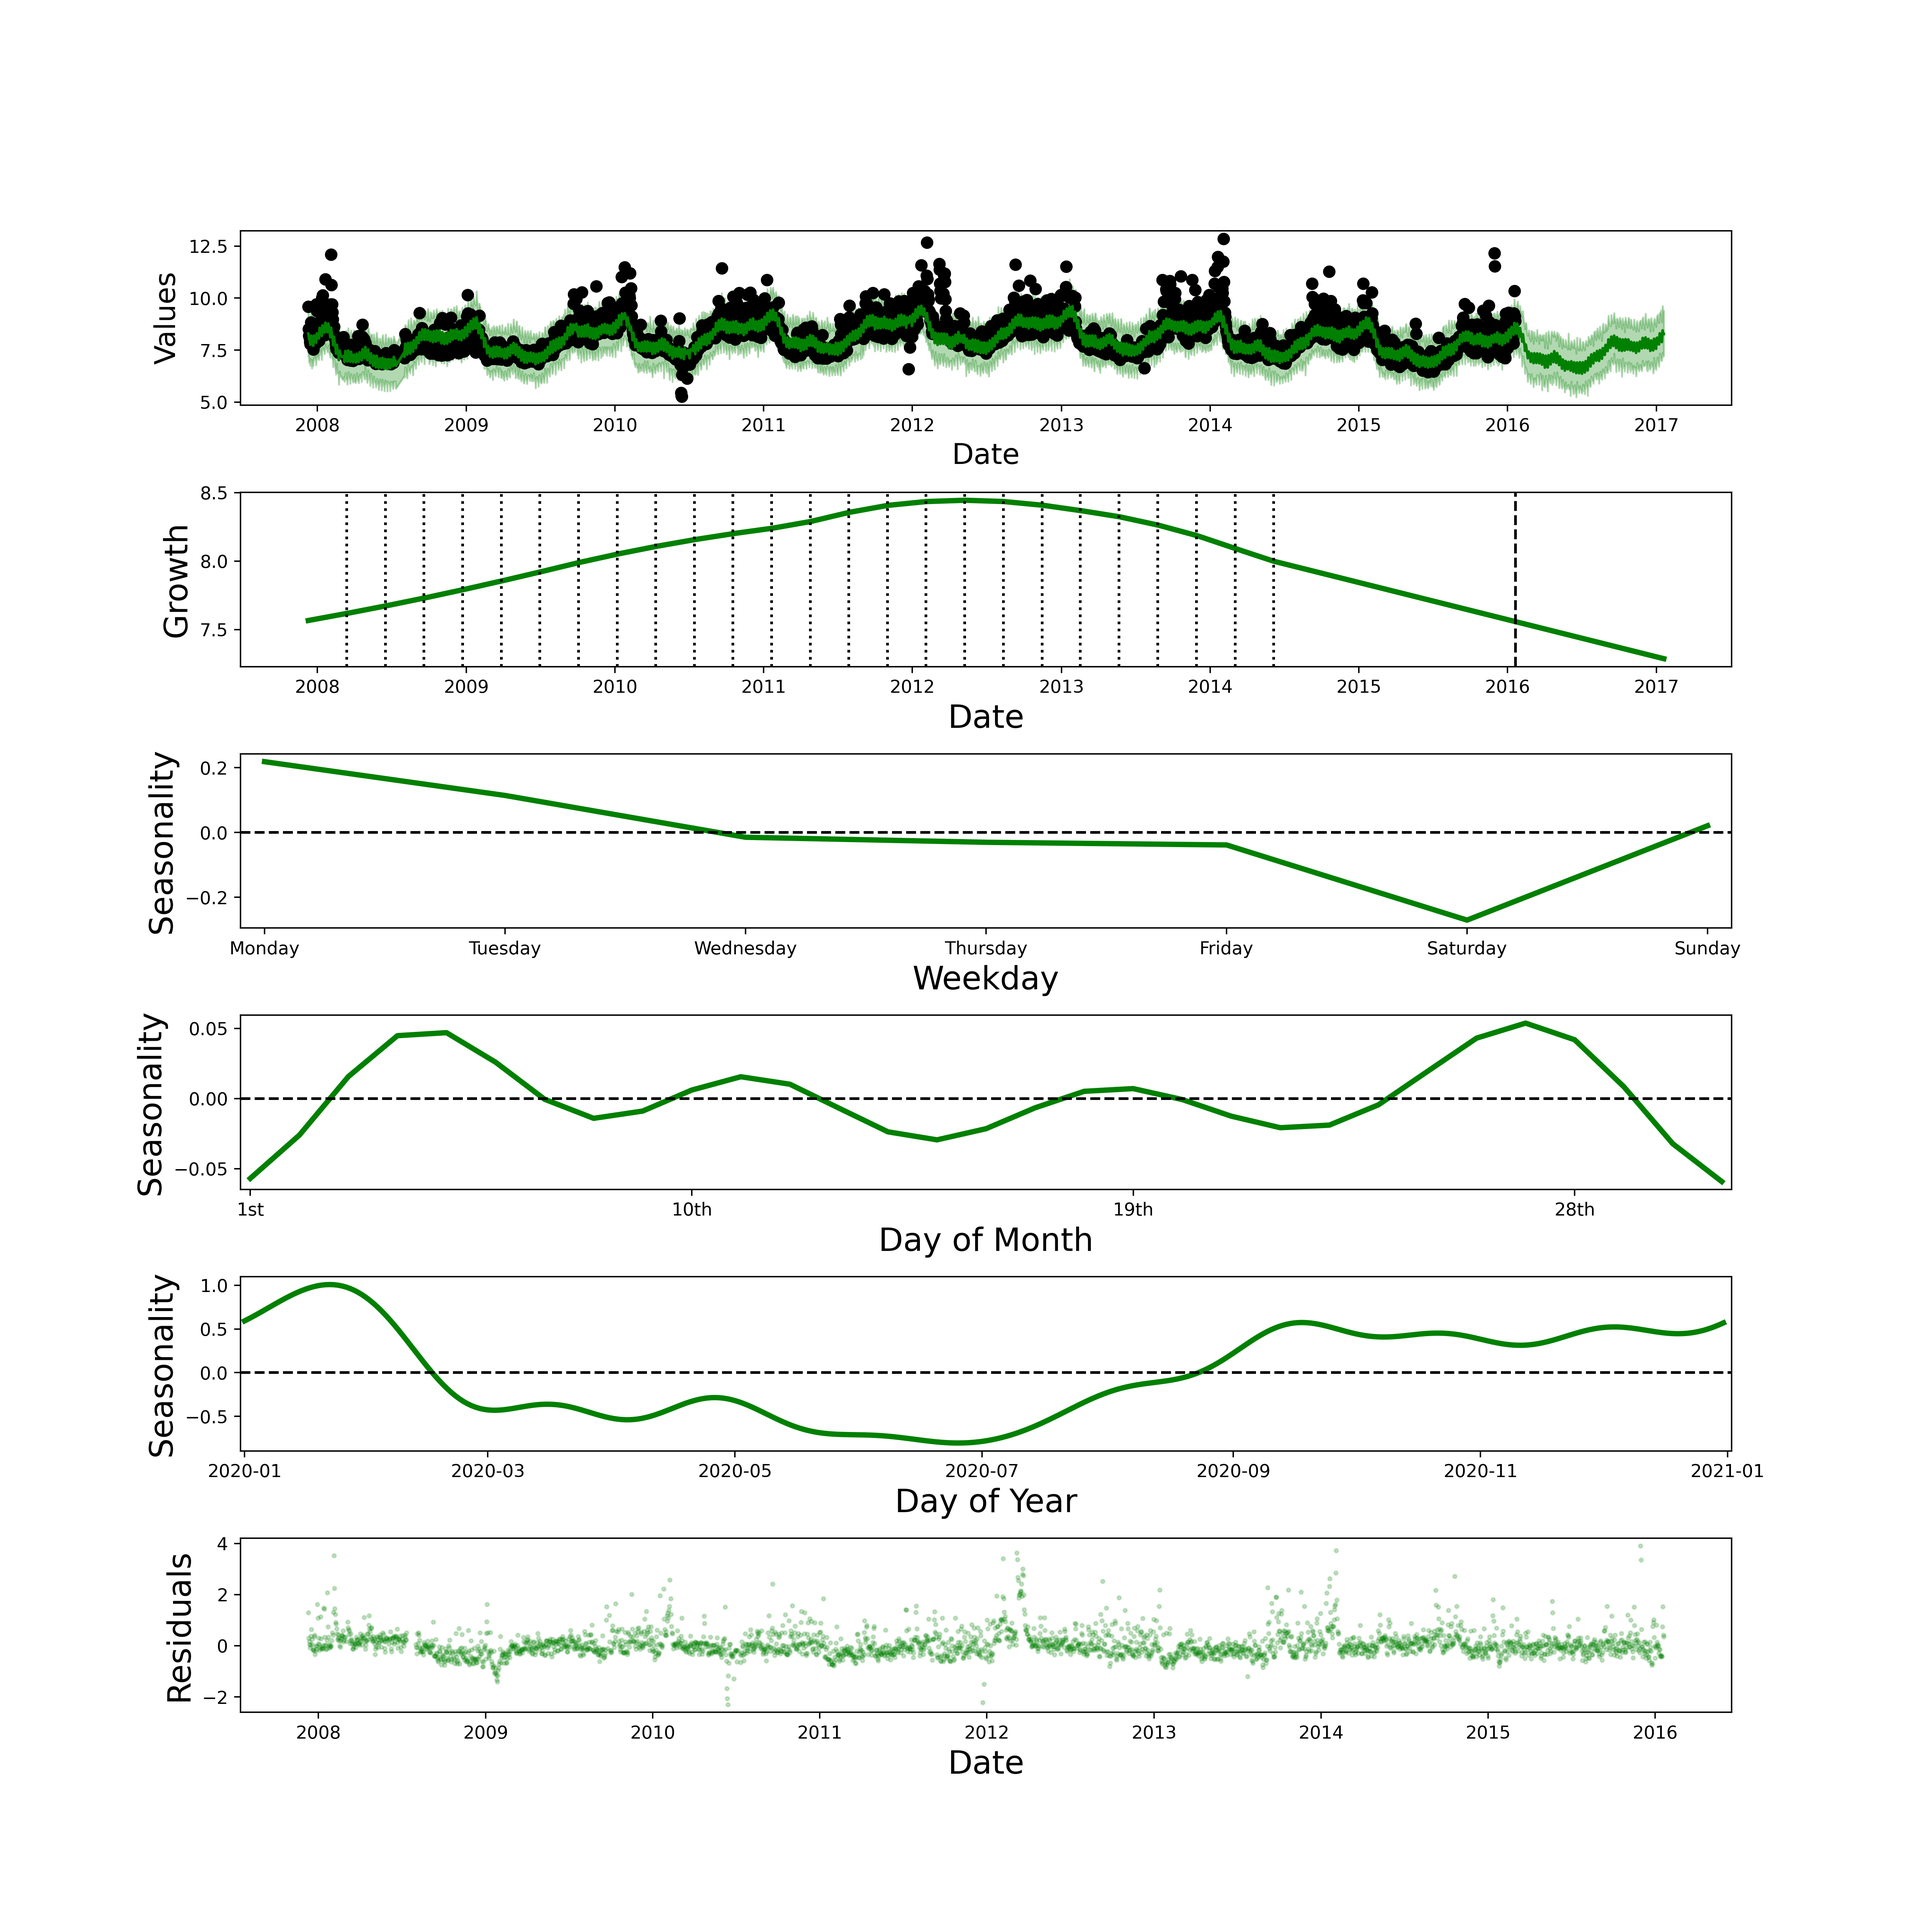
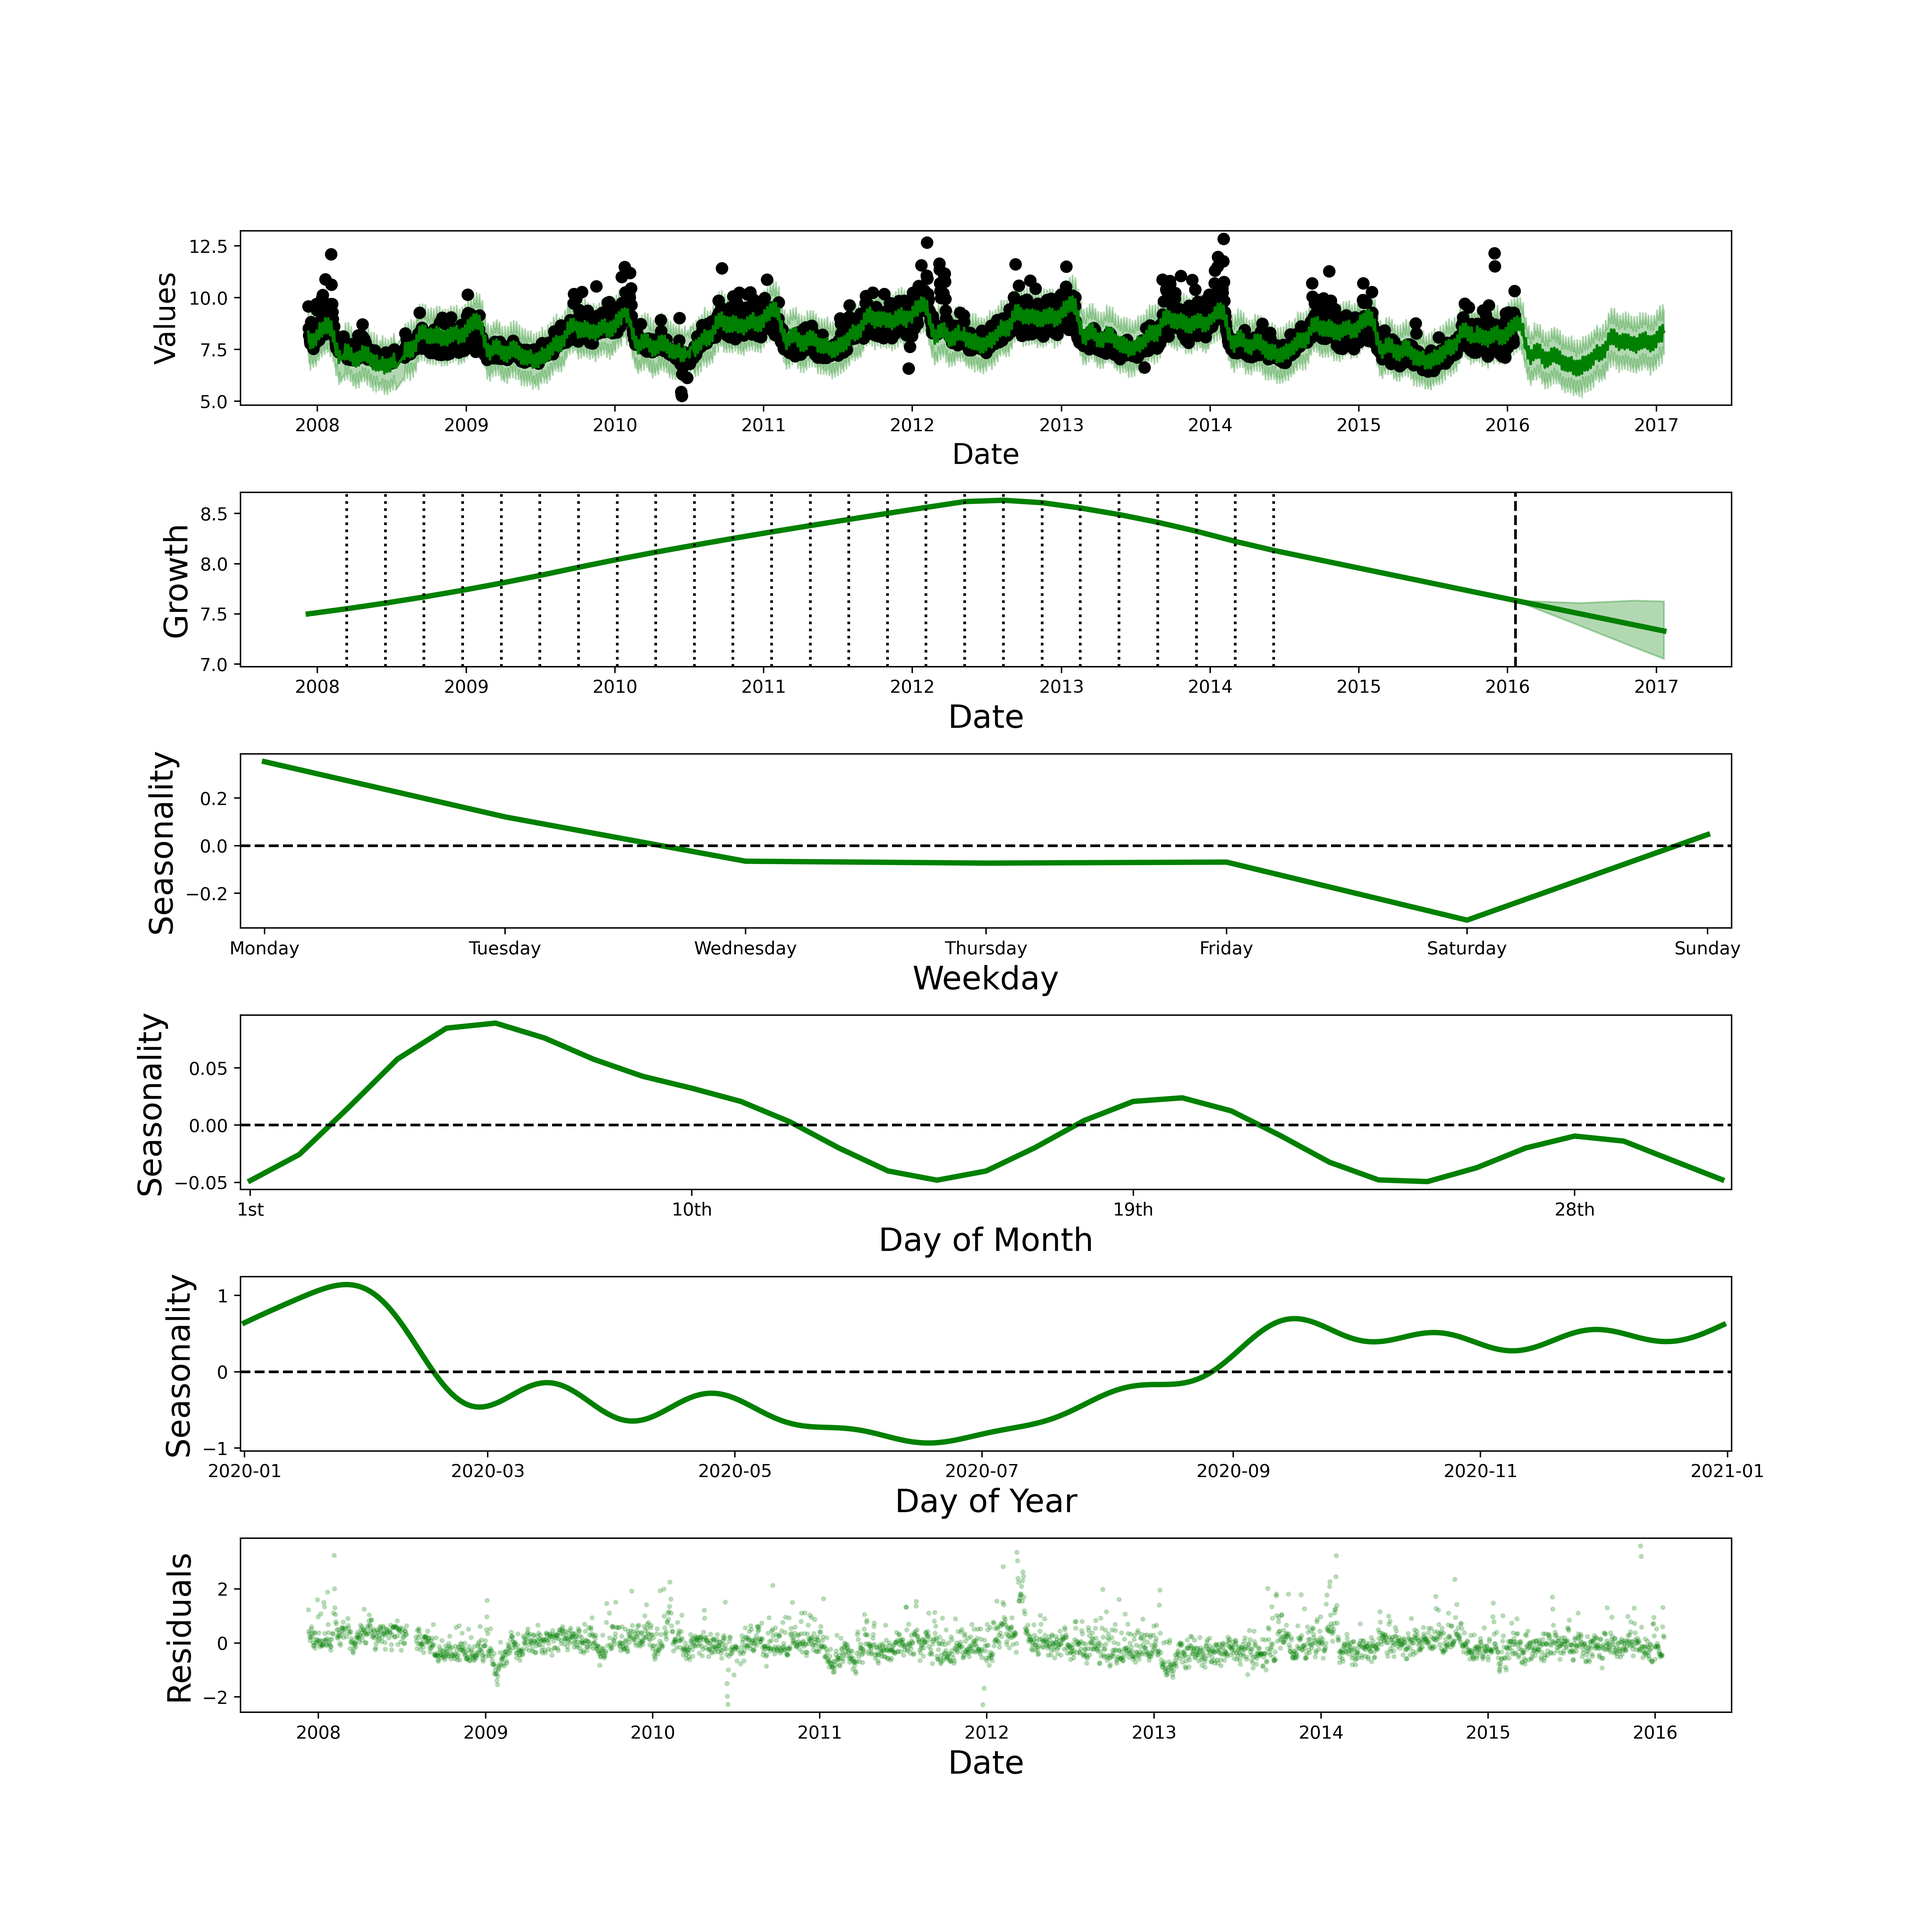
changepoints seem to work, need to think of other ways to simulate future changepoints

diff --git a/chronos.py b/chronos.py
@@ -138,11 +138,11 @@ class Chronos:
         return X_trend, X_seasonality, y
         
         
-    def find_changepoint_positions(self, X_trend, changepoint_num, drop_first = True):
+    def find_changepoint_positions(self, X_trend, changepoint_num, min_value = None, drop_first = True):
         
         #changepoint_range = int(self.changepoint_range_ * X_trend.max())
-
-        min_value = X_trend.min().item()
+        if (min_value is None):
+            min_value = X_trend.min().item()
         max_value_in_data = X_trend.max().item() #* data_prop
 
         max_distance = (max_value_in_data - min_value) * self.changepoint_range_
@@ -161,7 +161,7 @@ class Chronos:
         
 
     def make_A_matrix(self, X_trend, changepoints):
-        A = torch.zeros((X_trend.shape[0], self.n_changepoints_))
+        A = torch.zeros((X_trend.shape[0], len(changepoints)))
 
         #print(X_trend)
 
@@ -269,7 +269,7 @@ class Chronos:
         
         for step in range(self.n_iter_):
             
-            loss = round(self.svi_.step(X_trend, X_seasonality, A, y)/y.shape[0], 4)
+            loss = round(self.svi_.step(X_trend, X_seasonality, A, self.changepoints, y)/y.shape[0], 4)
             
             if (step % print_interval == 0):
                 pct_done = round(100*(step+1)/self.n_iter_, 2)
@@ -282,14 +282,27 @@ class Chronos:
         print(f"{pct_done}% - ELBO loss: {loss}")
             
     ##################################################################
+    def combine_components(self, X_trend, X_seasonality, A, deltas, gammas):
+        pass
+    ##################################################################
     
-    def model_MLE_(self, X_trend, X_seasonality, A, y=None):     
+    def model_MLE_(self, X_trend, X_seasonality, A, changepoints, y=None):     
         
         intercept_init = pyro.param("intercept", torch.tensor(0.0))
         slope_init = pyro.param("trend_slope", torch.tensor(0.0))
 
         deltas = pyro.param("delta", torch.zeros(self.n_changepoints_))
-        gammas = -deltas * self.changepoints
+
+        if (A.shape[1] > self.n_changepoints_):
+            extra_changepoint_num = A.shape[1] - self.n_changepoints_
+            future_laplace_scale = torch.abs(deltas).mean()
+
+            future_deltas = torch.distributions.Laplace(0, future_laplace_scale).sample((3,))
+
+            deltas = torch.cat([deltas, future_deltas])
+        
+    
+        gammas = -deltas * changepoints
 
         slope = slope_init + torch.matmul(A, deltas)
         intercept = intercept_init + torch.matmul(A, gammas)
@@ -327,7 +340,7 @@ class Chronos:
         
         
     
-    def guide_MLE_(self, X_trend, X_seasonality, A, y=None):
+    def guide_MLE_(self, X_trend, X_seasonality, A, changepoints, y=None):
         pass
     
     
@@ -341,7 +354,7 @@ class Chronos:
         return trend
     ##################################################################
     
-    def model_MAP_(self, X_trend, X_seasonality, A, y=None):
+    def model_MAP_(self, X_trend, X_seasonality, A, changepoints, y=None):
         
         
         intercept_init = pyro.sample("intercept", dist.Normal(0.0, 10.0))
@@ -350,27 +363,32 @@ class Chronos:
         deltas = pyro.sample("delta", dist.Laplace(torch.zeros(self.n_changepoints_), 
                                                    torch.full((self.n_changepoints_, ), 0.05)).to_event(1))
 
+        
+        if (A.shape[1] > self.n_changepoints_):
+            extra_changepoint_num = A.shape[1] - self.n_changepoints_
+            #print(deltas)
+            future_laplace_scale = torch.abs(deltas).mean()
+            #print(future_laplace_scale)
+
+            future_deltas = torch.distributions.Laplace(0, future_laplace_scale).sample((3,))
+            #future_deltas_mask = torch.distributions.Bernoulli(self.changepoint_proportion).sample((3,))
+            #print(future_deltas)
+            #print(future_deltas_mask)
+
+            deltas = torch.cat([deltas, future_deltas])
+            #print(deltas)
+            #print(changepoints)
+
+            #assert(False)
+
         #deltas = torch.where(torch.abs(deltas) < 0.01, torch.tensor(0.0), deltas)
         
-        gammas = -deltas * self.changepoints
+    
+        gammas = -deltas * changepoints
 
 
         slope = slope_init + torch.matmul(A, deltas)
         intercept = intercept_init + torch.matmul(A, gammas)
-        
-
-        #print("slope", slope.shape)
-        '''print("#"*30)
-        
-        print("slope-init, k", slope_init)
-        print('intercept, m', intercept_init)
-        print("delta", deltas)
-        print("gammas", gammas)
-        print("changepoint", self.changepoints)
-        print(self.changepoints[0]-2, self.changepoints[0]+1)
-        print("t", self.changepoints[0]-2, self.changepoints[0]+2)
-        #print("A", )#'''
-        
         
 
 
@@ -438,8 +456,18 @@ class Chronos:
         X_trend, X_seasonality, y = self.transform_data_(data)
         future_changepoint_number = self.changepoint_proportion * (X_trend.max() - self.max_train_time)
         future_changepoint_number = round(future_changepoint_number.item())
-        print(future_changepoint_number)
+        #print(future_changepoint_number)
 
+        future_changepoint_positions = self.find_changepoint_positions(X_trend, 
+                                                                       future_changepoint_number, 
+                                                                       min_value = self.max_train_time, 
+                                                                       drop_first = False)
+
+        combined_changepoints = []
+        combined_changepoints.extend(self.changepoints)
+        combined_changepoints.extend(future_changepoint_positions)
+        combined_changepoints = torch.tensor(combined_changepoints)
+        #print(future_changepoint_positions)
 
         #assert(False)
         
@@ -457,8 +485,10 @@ class Chronos:
                                     num_samples=sample_number,
                                     return_sites=("obs", "trend")) 
 
-            A = self.make_A_matrix(X_trend, self.changepoints)
-            samples = predictive(X_trend, X_seasonality, A)
+            A = self.make_A_matrix(X_trend, combined_changepoints)
+            #print(A.shape)
+            #assert(False)
+            samples = predictive(X_trend, X_seasonality, A, combined_changepoints)
             
             
             space_on_each_side = (1.0 - ci_interval)/2.0
@@ -466,15 +496,25 @@ class Chronos:
             upper_ntile = int(len(samples['obs']) * (1.0 - space_on_each_side))
             
 
-            trend = samples['trend'].squeeze()[0, :]
+            trend_array = samples['trend'].squeeze()
+            trend = trend_array.mean(dim=0)
+            trend_upper = trend_array.max(dim=0).values
+            trend_lower = trend_array.min(dim=0).values
+
+            #print(trend_array)
+            #print(trend_upper.values)
             predictions = pd.DataFrame({"yhat": torch.mean(samples['obs'], 0).detach().numpy(),
                                         "yhat_lower": samples['obs'].kthvalue(lower_ntile, dim=0)[0].detach().numpy(),
                                         "yhat_upper": samples['obs'].kthvalue(upper_ntile, dim=0)[0].detach().numpy(),
-                                        "trend": trend.detach().numpy()})
+                                        "trend": trend.detach().numpy(),
+                                        "trend_lower": trend_lower.detach().numpy(),
+                                        "trend_upper": trend_upper.detach().numpy()})
             
             predictions[self.target_col_] = y.detach().numpy()
             predictions[self.time_col_] = data[self.time_col_]
-            return predictions[[self.time_col_, self.target_col_, 'yhat', 'yhat_upper', 'yhat_lower', 'trend']]
+            return predictions[[self.time_col_, self.target_col_, 
+                                'yhat', 'yhat_upper', 'yhat_lower', 
+                                'trend', 'trend_upper', 'trend_lower']]
         else:
             raise NotImplementedError(f"Did not implement .predict for {self.method_}")
 
@@ -600,14 +640,18 @@ class Chronos:
         axs[0].set_ylabel("Values", size=16)
         current_axs += 1
 
-
+        ########## TREND ########################################################################
         const = pyro.param(f'{self.param_prefix_}intercept').detach()
         growth = pyro.param(f'{self.param_prefix_}trend_slope').detach()
         #const, growth = pyro.param(self.param_name_).detach().numpy()[:2]
         trend_X = predictions[self.time_col_]
         trend_Y = predictions['trend']
-        predictions_start = predictions[predictions[self.target_col_].isna()][self.time_col_].min()
+
+        
+        
         axs[current_axs].plot(trend_X, trend_Y, linewidth=3, c="green")
+        axs[current_axs].fill_between(trend_X, predictions['trend_upper'], predictions['trend_lower'], color="green", alpha=0.3)
+
         for index, changepoint in enumerate(self.changepoints):
             
             changepoint_value = int(self.changepoints[index].item() * self.ms_to_day_ratio_/1e9)
@@ -615,6 +659,9 @@ class Chronos:
 
             if (abs(changepoint_value) >= changepoint_threshold):
                 axs[current_axs].axvline(changepoint_date_value, c="black", linestyle="dotted")#'''
+        
+        # Find the date where history ends and predictions start
+        predictions_start = predictions[predictions[self.target_col_].isna()][self.time_col_].min()
         axs[current_axs].axvline(datetime.date(predictions_start.year, predictions_start.month, predictions_start.day), c="black", linestyle="--")
         axs[current_axs].set_xlabel('Date', size=18)
         axs[current_axs].set_ylabel('Growth', size=18)

diff --git a/test_script.py b/test_script.py
@@ -10,7 +10,7 @@ my_ts_data['ds'] = pd.to_datetime(my_ts_data['ds'])
 
 
 
-my_chronos = Chronos(method="MAP", max_iter=1000, learning_rate=10.0, n_changepoints=25)
+my_chronos = Chronos(method="MLE", max_iter=100, learning_rate=10.0, n_changepoints=25)
 
 my_chronos.fit(my_ts_data)
 future_df = my_chronos.make_future_dataframe(period=365)
